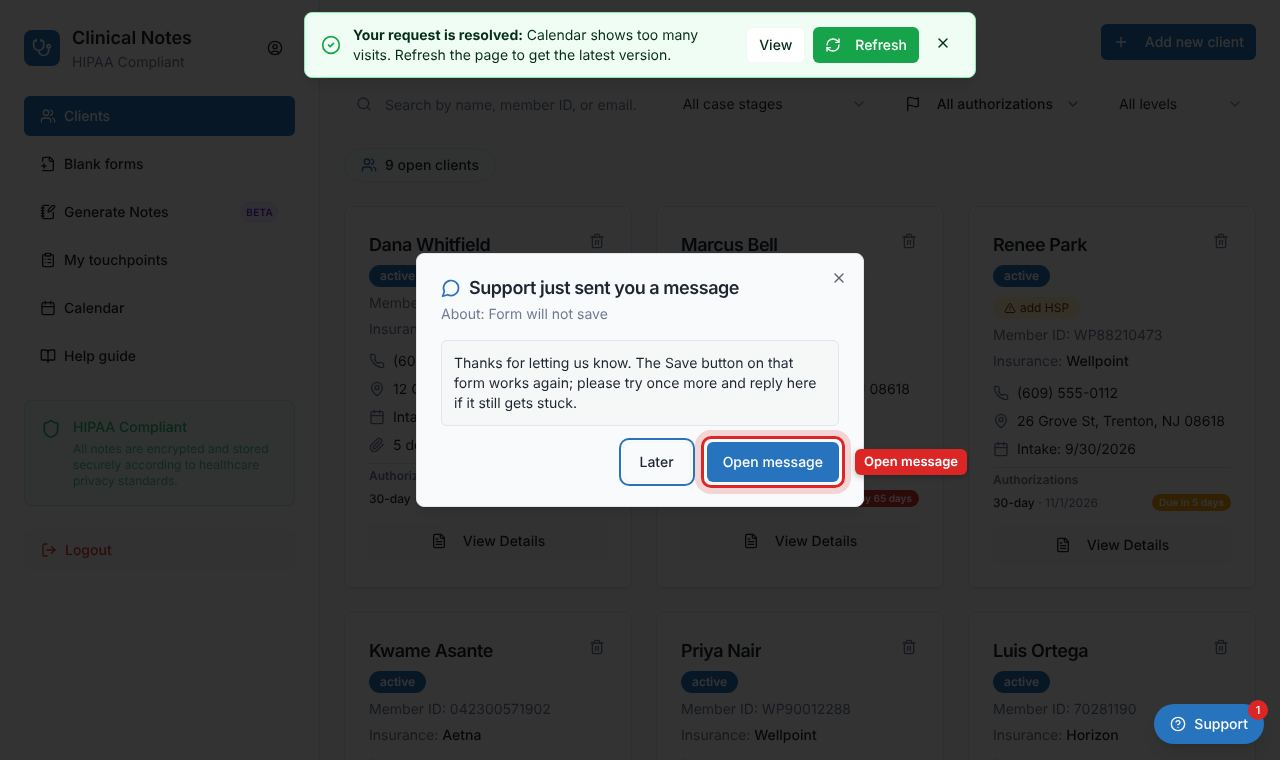
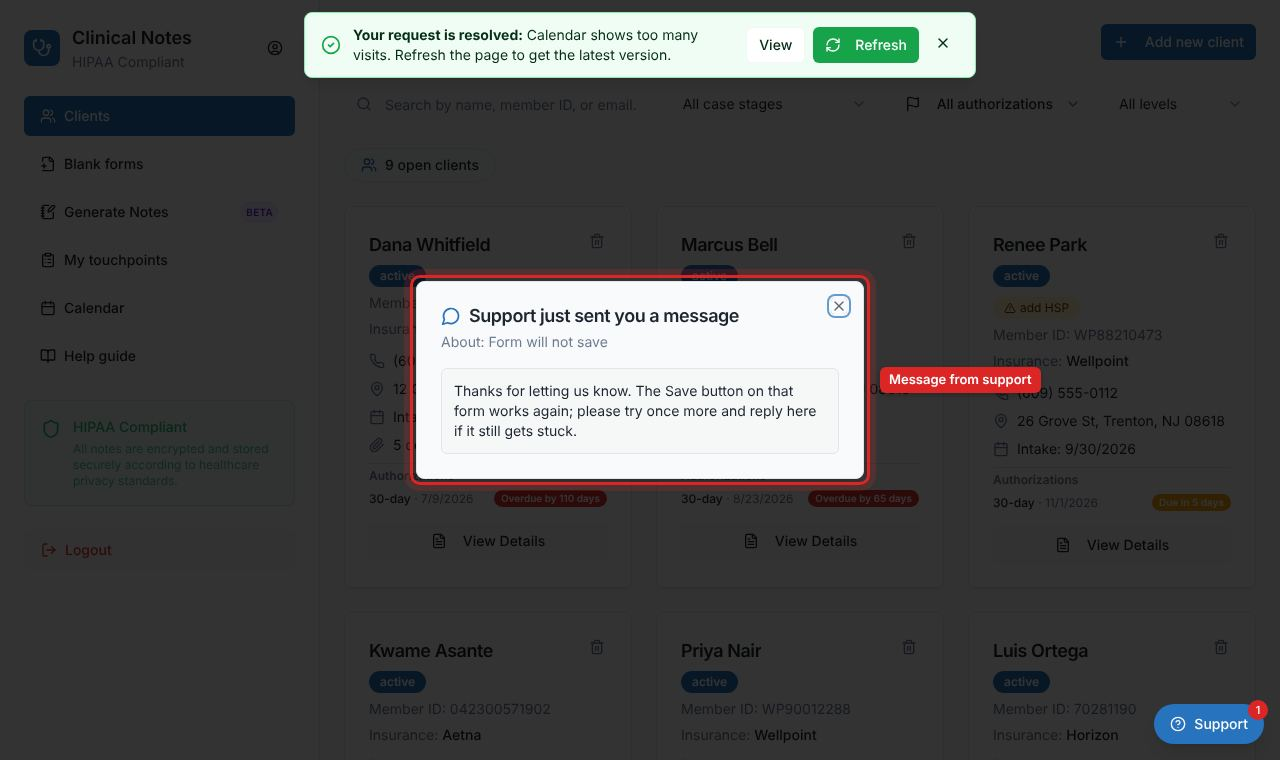
Support pop-up: the message itself, no Later
One reply is shown whole and the X closes it (and marks it read). Several
unread replies are all listed, with Open messages for the conversation.

Claude-Session: https://claude.ai/code/session_012TZTkqWFZbcufo1uEC7hhK

Changed region(s): [[0.3125, 0.3329, 0.8125, 0.6658]]

diff --git a/src/components/support/SupportButton.tsx b/src/components/support/SupportButton.tsx
@@ -120,7 +120,8 @@ export const SupportButton: React.FC = () => {
    * the middle of the screen, a resolved request as a banner. Each shows once:
    * opening it marks it read, and Later / the X remembers it was shown.
    */
-  const [replyNotice, setReplyNotice] = useState<{ ticket: Ticket; preview: string } | null>(null);
+  /** The unread replies on one request, newest last. */
+  const [replyNotice, setReplyNotice] = useState<{ ticket: Ticket; messages: string[] } | null>(null);
   const [resolvedNotice, setResolvedNotice] = useState<Ticket | null>(null);
   const shownKey = (kind: string, t: Ticket, at: string | null | undefined) => `support-notice-${kind}-${t.id}-${at ?? ''}`;
   const wasShown = (key: string) => {
@@ -145,8 +146,8 @@ export const SupportButton: React.FC = () => {
     let cancelled = false;
     (async () => {
       const msgs = await loadMessages(t.id);
-      const last = [...msgs].reverse().find((m) => m.from_support);
-      if (!cancelled) setReplyNotice({ ticket: t, preview: last?.body ?? '' });
+      const unreadReplies = msgs.filter((m) => m.from_support && m.created_at > t.requester_seen_at).map((m) => m.body);
+      if (!cancelled && unreadReplies.length) setReplyNotice({ ticket: t, messages: unreadReplies });
     })();
     return () => {
       cancelled = true;
@@ -284,12 +285,15 @@ export const SupportButton: React.FC = () => {
 
   return (
     <>
-      {/* A reply from support: in the middle of the screen, so it is seen. */}
+      {/* A reply from support: in the middle of the screen, so it is seen.
+          One reply is shown whole and the X closes it, read. Several are
+          listed, with Open messages for the conversation. */}
       <Dialog
         open={!!replyNotice}
         onOpenChange={(o) => {
           if (!o && replyNotice) {
             remember(shownKey('reply', replyNotice.ticket, replyNotice.ticket.last_support_reply_at));
+            void markSeen(replyNotice.ticket.id).then(refresh);
             setReplyNotice(null);
           }
         }}
@@ -298,35 +302,33 @@ export const SupportButton: React.FC = () => {
           <DialogHeader>
             <DialogTitle className="flex items-center gap-2">
               <MessageCircle className="h-5 w-5 text-primary" />
-              Support just sent you a message
+              {replyNotice && replyNotice.messages.length > 1
+                ? `Support sent you ${replyNotice.messages.length} messages`
+                : 'Support just sent you a message'}
             </DialogTitle>
             <DialogDescription>About: {replyNotice ? ticketTitle(replyNotice.ticket) : ''}</DialogDescription>
           </DialogHeader>
-          {replyNotice?.preview && (
-            <p className="line-clamp-4 whitespace-pre-wrap rounded-md border bg-muted/40 p-3 text-sm">{replyNotice.preview}</p>
+          <div className="max-h-[50vh] space-y-2 overflow-y-auto">
+            {replyNotice?.messages.map((body, i) => (
+              <p key={i} className="whitespace-pre-wrap rounded-md border bg-muted/40 p-3 text-sm">
+                {body}
+              </p>
+            ))}
+          </div>
+          {replyNotice && replyNotice.messages.length > 1 && (
+            <DialogFooter>
+              <Button
+                onClick={() => {
+                  remember(shownKey('reply', replyNotice.ticket, replyNotice.ticket.last_support_reply_at));
+                  const t = replyNotice.ticket;
+                  setReplyNotice(null);
+                  openFromNotice(t);
+                }}
+              >
+                Open messages
+              </Button>
+            </DialogFooter>
           )}
-          <DialogFooter className="gap-2">
-            <Button
-              variant="outline"
-              onClick={() => {
-                if (replyNotice) remember(shownKey('reply', replyNotice.ticket, replyNotice.ticket.last_support_reply_at));
-                setReplyNotice(null);
-              }}
-            >
-              Later
-            </Button>
-            <Button
-              onClick={() => {
-                if (!replyNotice) return;
-                remember(shownKey('reply', replyNotice.ticket, replyNotice.ticket.last_support_reply_at));
-                const t = replyNotice.ticket;
-                setReplyNotice(null);
-                openFromNotice(t);
-              }}
-            >
-              Open message
-            </Button>
-          </DialogFooter>
         </DialogContent>
       </Dialog>
 

diff --git a/src/lib/helpGuides.ts b/src/lib/helpGuides.ts
@@ -470,7 +470,7 @@ export const GUIDES: Guide[] = [
   },  {
     id: 'support-reply', section: 'Getting started', title: 'Read a reply from support', audience: 'everyone', minutes: 1,
     steps: [
-      s('Open the message', 'When support replies, a message appears in the middle of the screen. Select Open message to read it and reply, or Later to read it from Support → My requests.'),
+      s('Read the message', 'When support replies, the message appears in the middle of the screen. Select the X when you have read it. If support sent several, select Open messages to see the conversation. To reply, select Support, then My requests.'),
       s('Refresh when resolved', 'When your request is resolved, a green banner appears at the top. Select Refresh so the page shows the latest version.'),
     ],
   },
